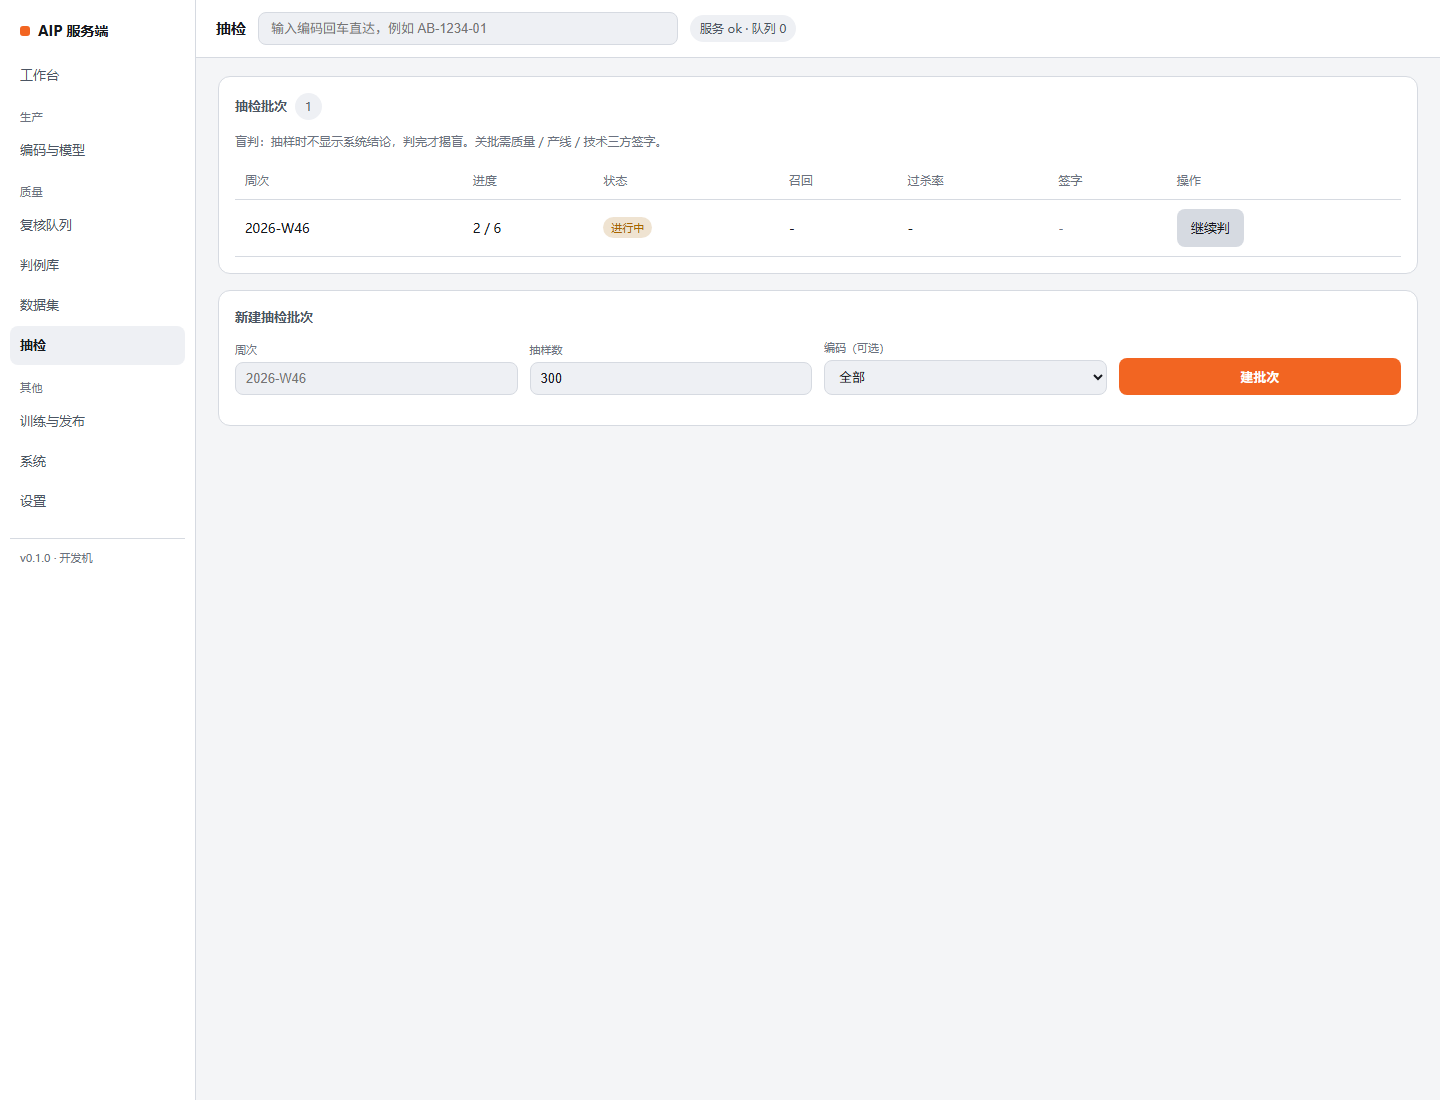
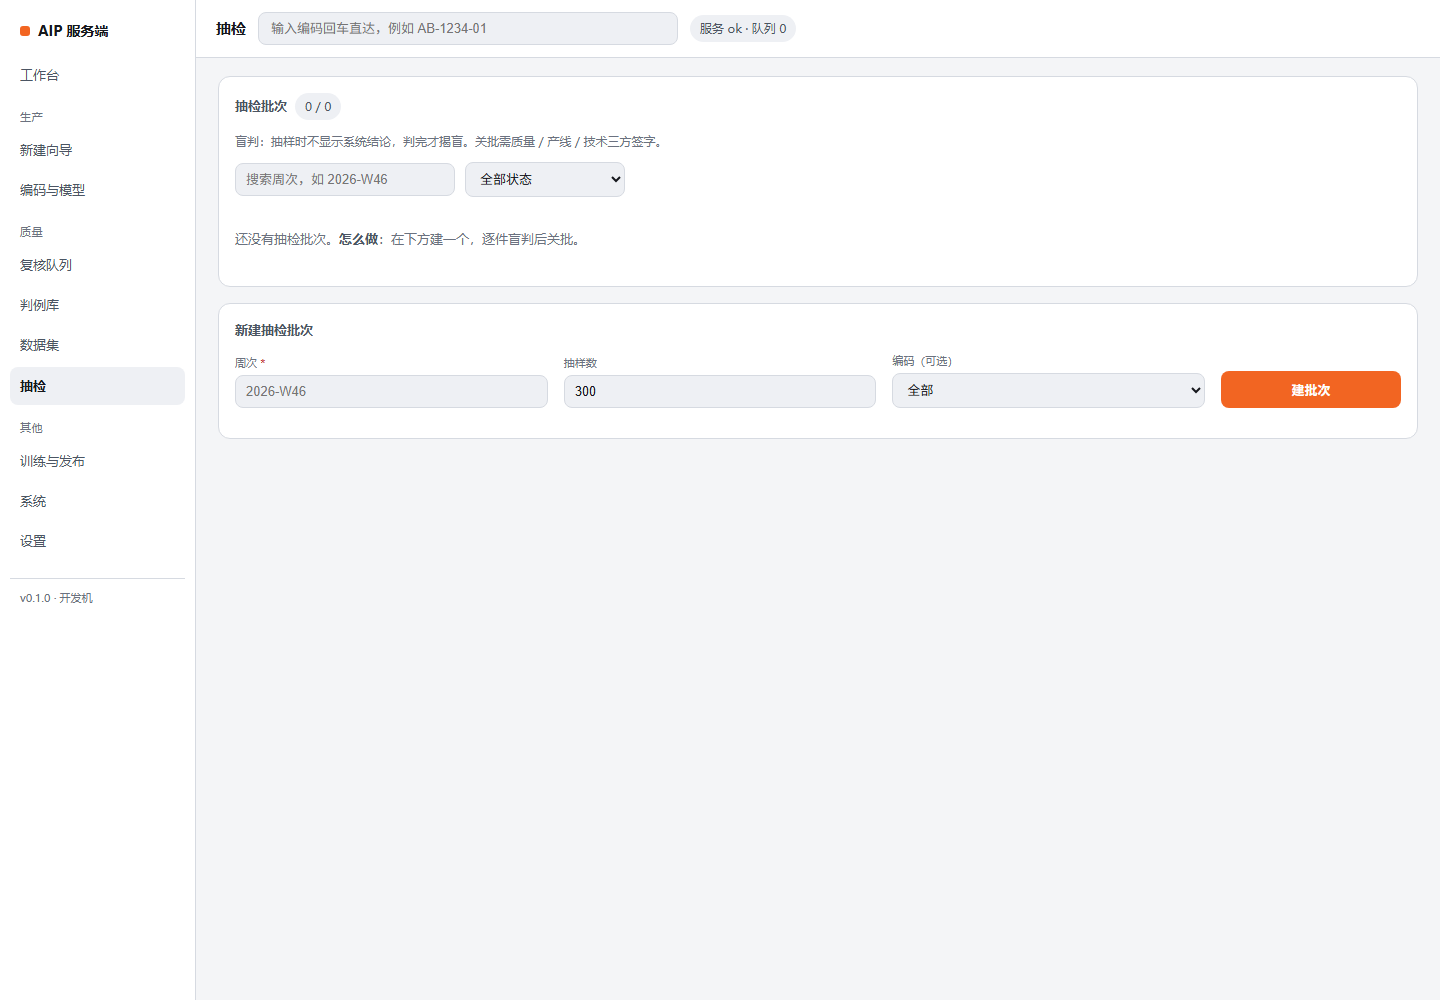
feat: 抽检按周次/状态筛选、审计按动作/操作人筛选；抽检表单对齐定宽

diff --git a/aip/web/admin.html b/aip/web/admin.html
@@ -397,7 +397,15 @@ async function renderWorkbench() {
     </section>
 
     <section>
-      <h2>最近操作</h2>
+      <h2>最近操作 <span class="pill">${audit.length} / ${auditRaw.length}</span></h2>
+      <div class="filterbar">
+        <select id="sys_action" style="max-width:220px">
+          <option value="">全部动作</option>
+          ${Object.keys(ACTIONS).map(k => `<option value="${k}" ${systemState.auditAction === k ? "selected" : ""}>${esc(actionLabel(k))}</option>`).join("")}
+        </select>
+        <input id="sys_actor" value="${esc(systemState.auditActor)}" placeholder="操作人，回车筛选" style="max-width:200px">
+        <button class="ghost" id="sys_reset">重置</button>
+      </div>
       ${audit.length ? `<div class="timeline">${audit.map(a => `
         <div class="tl"><time>${fmtTime(a.created_at)}</time><span class="kind">${esc(actionLabel(a.action))}</span>
         <span>${esc(a.actor)} · ${esc(a.entity)}${a.entity_id ? " #" + esc(a.entity_id) : ""}</span></div>`).join("")}</div>`
@@ -410,6 +418,8 @@ let showArchived = false;
 let wiz = { code: "", modelId: null };
 let trainingState = { q: "", family: "", jobModel: "" };
 let datasetState = { q: "", family: "", model: "", status: "" };
+let blindState = { q: "", status: "" };
+let systemState = { auditAction: "", auditActor: "", auditLimit: 100 };
 
 async function renderWizard() {
   const [codes, models, bindings, datasets] = await Promise.all([
@@ -1265,9 +1275,15 @@ async function renderSettings() {
 }
 
 async function renderSystem() {
-  const [stations, audit, health] = await Promise.all([
-    api("/api/stations"), api("/api/audit/recent?limit=20"), api("/health")
+  const [stations, auditRaw, health] = await Promise.all([
+    api("/api/stations"), api("/api/audit/recent?limit=" + systemState.auditLimit), api("/health")
   ]);
+  const audit = auditRaw.filter(a =>
+    (systemState.auditAction ? a.action === systemState.auditAction : true) &&
+    (systemState.auditActor
+      ? String(a.actor).toLowerCase().includes(systemState.auditActor.toLowerCase())
+      : true)
+  );
 
   $("view").innerHTML = `
     <section>
@@ -1306,8 +1322,16 @@ async function renderSystem() {
     </section>
 
     <section>
-      <h2>最近操作</h2>
-      ${audit.length === 0 ? `<div class="empty">还没有审计记录。</div>` : `
+      <h2>最近操作 <span class="pill">${audit.length} / ${auditRaw.length}</span></h2>
+      <div class="filterbar">
+        <select id="sys_action" style="max-width:220px">
+          <option value="">全部动作</option>
+          ${Object.keys(ACTIONS).map(k => `<option value="${k}" ${systemState.auditAction === k ? "selected" : ""}>${esc(actionLabel(k))}</option>`).join("")}
+        </select>
+        <input id="sys_actor" value="${esc(systemState.auditActor)}" placeholder="操作人，回车筛选" style="max-width:200px">
+        <button class="ghost" id="sys_reset">重置</button>
+      </div>
+      ${audit.length === 0 ? `<div class="empty">${auditRaw.length ? "当前筛选下没有记录。" : "还没有审计记录。"}</div>` : `
       <table><caption class="sr-only">审计</caption>
         <thead><tr><th scope="col">时间</th><th scope="col">动作</th><th scope="col">操作人</th><th scope="col">对象</th></tr></thead>
         <tbody>${audit.map(a => `<tr>
@@ -1637,17 +1661,30 @@ async function renderDatasets() {
 
 async function renderBlind() {
   const [batches, codes] = await Promise.all([api("/api/blind/batches"), api("/api/codes")]);
+  const q = blindState.q.trim().toLowerCase();
+  const shown = batches.filter(b =>
+    (blindState.status ? b.status === blindState.status : true) &&
+    (q ? String(b.week).toLowerCase().includes(q) : true)
+  );
   $("view").innerHTML = `
     <section>
-      <h2>抽检批次 <span class="pill">${batches.length}</span></h2>
+      <h2>抽检批次 <span class="pill">${shown.length} / ${batches.length}</span></h2>
       <p class="muted" style="margin:0 0 12px">
         盲判：抽样时不显示系统结论，判完才揭盲。关批需质量 / 产线 / 技术三方签字。
       </p>
-      ${batches.length === 0 ? `<div class="empty">还没有抽检批次。<b>怎么做</b>：在下方建一个，逐件盲判后关批。</div>` : `
+      <div class="filterbar">
+        <input id="bl_q" value="${esc(blindState.q)}" placeholder="搜索周次，如 2026-W46" style="max-width:220px">
+        <select id="bl_status" style="max-width:160px">
+          <option value="">全部状态</option>
+          <option value="open" ${blindState.status === "open" ? "selected" : ""}>进行中</option>
+          <option value="closed" ${blindState.status === "closed" ? "selected" : ""}>已关批</option>
+        </select>
+      </div>
+      ${shown.length === 0 ? `<div class="empty">${batches.length ? "当前筛选下没有抽检批次。" : "还没有抽检批次。"}<b>怎么做</b>：在下方建一个，逐件盲判后关批。</div>` : `
       <table><caption class="sr-only">抽检批次</caption>
         <thead><tr><th scope="col">周次</th><th scope="col">进度</th><th scope="col">状态</th>
           <th scope="col">召回</th><th scope="col">过杀率</th><th scope="col">签字</th><th scope="col">操作</th></tr></thead>
-        <tbody>${batches.map(b => `<tr>
+        <tbody>${shown.map(b => `<tr>
           <td>${esc(b.week)}</td>
           <td>${b.judged} / ${b.total}</td>
           <td>${b.status === "closed" ? '<span class="tag ok">已关批</span>' : '<span class="tag candidate">进行中</span>'}</td>
@@ -1660,7 +1697,7 @@ async function renderBlind() {
 
     <section>
       <h2>新建抽检批次</h2>
-      <div class="form">
+      <div class="form form-grid">
         <div><label for="bl_week">周次<span class="req"> *</span></label><input id="bl_week" placeholder="2026-W46"></div>
         <div><label for="bl_size">抽样数</label><input id="bl_size" value="300" inputmode="numeric"></div>
         <div><label for="bl_code">编码（可选）</label>
@@ -1670,6 +1707,13 @@ async function renderBlind() {
         <div><button class="act" id="btnBlind">建批次</button></div>
       </div>
     </section>`;
+
+  $("bl_q").addEventListener("keydown", (e) => {
+    if (e.key !== "Enter") return;
+    blindState.q = e.target.value;
+    renderBlind();
+  });
+  $("bl_status").onchange = (e) => { blindState.status = e.target.value; renderBlind(); };
 
   $("btnBlind").onclick = async () => {
     if (!need($("bl_week"), "周次")) return;
